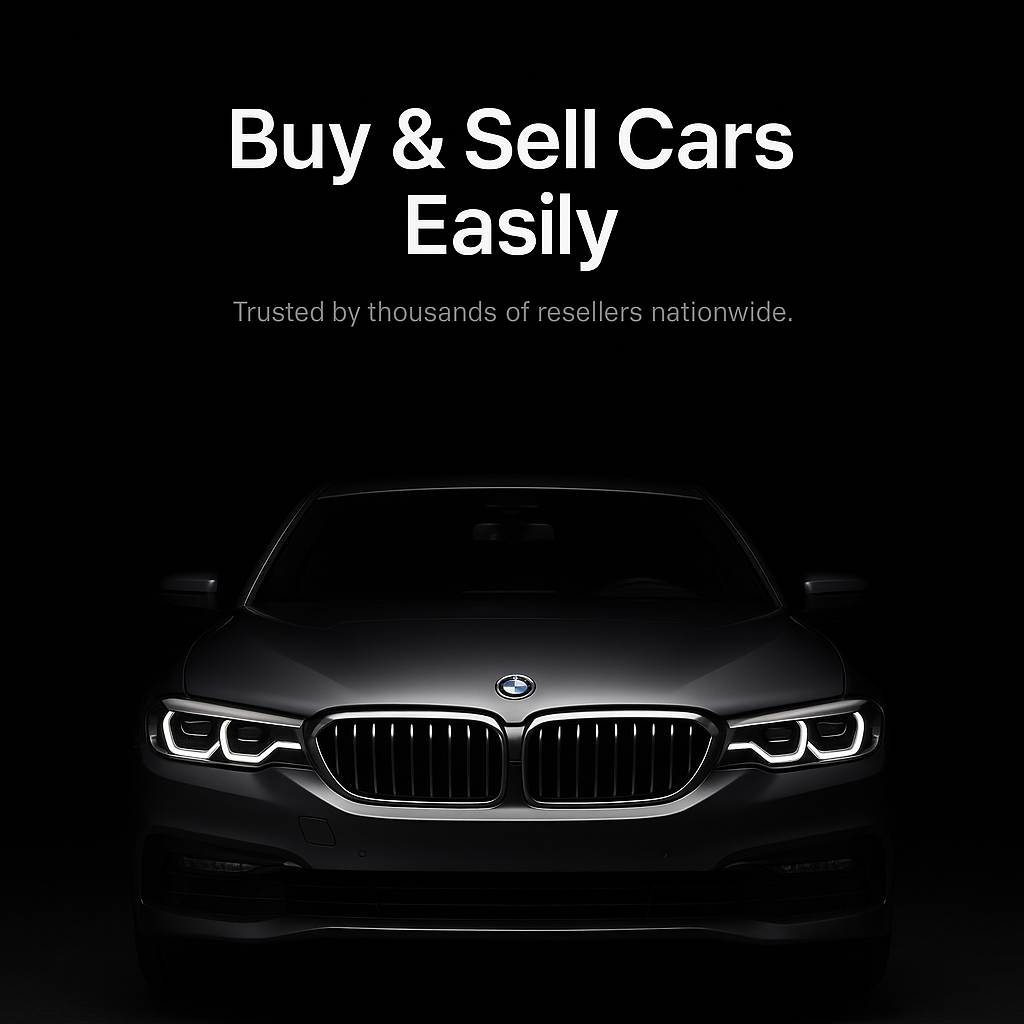
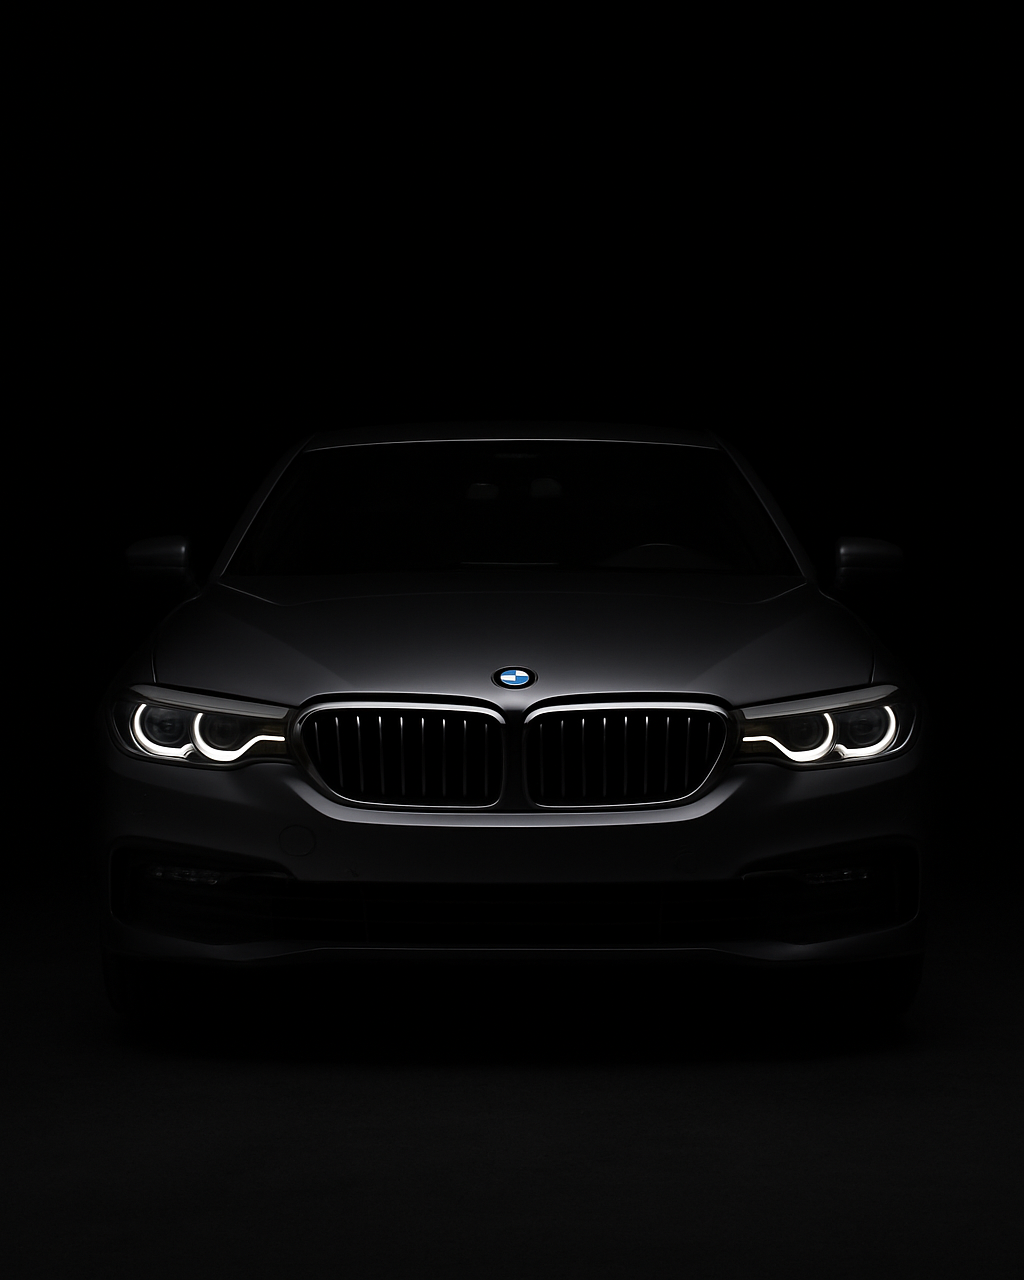
adding sections to LP

Changed region(s): [[0.125, 0.4688, 0.875, 0.8438], [0.2188, 0.0938, 0.7812, 0.3125], [0.2188, 0.9062, 0.25, 0.9375]]

diff --git a/src/components/FeaturedCars/FeaturedCars.css b/src/components/FeaturedCars/FeaturedCars.css
@@ -1,5 +1,9 @@
 /* FeaturedCars.css - Layout & section styles (does NOT modify individual CarCard styles) */
-
+.container-featured-cars{
+  display: flex;
+  flex-direction: column;
+  align-items: center;
+}
 .featured-section {
   padding: 4rem 5% 2rem;
   background: #ffffff;
@@ -31,7 +35,7 @@
 /* View all button */
 .view-all-btn, .btn-primary-large {
   margin: 3rem auto 0;
-  background: #1754ff;
+  background: var(--primary);
   color: #fff;
   padding: 0.9rem 2.5rem;
   border: none;
@@ -42,14 +46,14 @@
 }
 
 .view-all-btn:hover {
-  background: #1040d8;
+  background: var(--sb1);
 }
 
 /* ------- Mobile adjustments ------- */
 /* Map component class names */
 .featured-cars {
   padding: 4rem 5% 2rem;
-  background: #ffffff;
+  background: var(--altBackground);
   text-align: center;
   height: max-content;
 }
@@ -68,19 +72,21 @@
 }
 
 .featured-cars .cars-grid {
-  display: grid;
-  grid-template-columns: repeat(auto-fill, minmax(300px, 1fr));
+  display: flex;
+  flex-wrap: wrap;
   gap: 2rem;
   width: 100%;
   justify-items: center;
+  justify-content: center;
+  align-items: center;
 }
 
 .featured-cars .section-cta .btn-primary-large {
   margin-top: 3rem;
-  background: #1754ff;
-  color: #fff;
+  background: var(--primary);
+  color: var(--text);
   padding: 0.9rem 2.5rem;
-  border: none;
+  border: 2px solid var(--primary);
   border-radius: 8px;
   font-weight: 600;
   cursor: pointer;
@@ -88,7 +94,7 @@
 }
 
 .featured-cars .section-cta .btn-primary-large:hover {
-  background: #1040d8;
+  background: var(--sb1);
 }
 
 @media (max-width: 768px) {

diff --git a/src/pages/LandingPage/LandingPage.css b/src/pages/LandingPage/LandingPage.css
@@ -5,11 +5,31 @@
   min-height: 100vh;
   background: #ffffff;
   color: #0f1b31;
+  overflow-y: scroll;
+}
+
+.landing-page::-webkit-scrollbar {
+  width: 10px;
+}
+
+.landing-page::-webkit-scrollbar-track {
+  background: var(--altBackground);
+}
+
+.landing-page::-webkit-scrollbar-thumb {
+  background: var(--sb1);
+}
+
+.landing-page::-webkit-scrollbar-thumb:hover {
+  background: var(--primary);
 }
 
 .landing-page main {
+  display: flex;
+  flex-direction: column;
   flex: 1 0 auto;
-
+  gap: 2rem;
+background-color: var(--altBackground);
 }
 
 /* Utility container */
@@ -23,8 +43,8 @@
 /* Section header generic */
 .section-header { margin-bottom: 2.5rem; }
 
-.section-header .section-title { font-weight: 800; }
-.section-header .section-subtitle { color:#516173; }
+.section-header .section-title { font-weight: 800;color:var(--accent); }
+.section-header .section-subtitle { color:gray; }
 
 /* Mobile-first styles */
 .lp-header .logo {
@@ -33,7 +53,7 @@
 .car-card{
   margin-bottom: 2rem;
   box-shadow: none;
-  transition: all 1s ease;
+  flex: 0 1 360px;
 }
 
 /* Desktop override */

diff --git a/src/components/WhyChooseUs/WhyChooseUs.css b/src/components/WhyChooseUs/WhyChooseUs.css
@@ -1,7 +1,7 @@
 /* Why Choose Us Component Styles */
 .why-choose {
     padding: 4rem 0;
-    background: var(--background);
+    background: var(--altBackground);
   }
   
   .benefits-grid {
@@ -11,11 +11,11 @@
   }
   
   .benefit-card {
-    background: var(--surface);
+    background: var(--background);
     padding: 2rem;
     border-radius: 12px;
     text-align: center;
-    box-shadow: 0 4px 6px rgba(0, 0, 0, 0.05);
+    box-shadow: 0 4px 6px rgba(139, 139, 139, 0.05);
     transition: transform 0.2s ease;
   }
   
@@ -26,8 +26,8 @@
   .benefit-icon {
     width: 60px;
     height: 60px;
-    background: var(--primary);
-    color: white;
+    background: var(--accent);
+    color: var(--text);
     border-radius: 50%;
     display: flex;
     align-items: center;
@@ -39,10 +39,11 @@
     font-size: 1.25rem;
     font-weight: 700;
     margin-bottom: 1rem;
+    color: var(--text);
   }
   
   .benefit-card p {
-    color: var(--text-secondary);
+    color: gray;
     line-height: 1.6;
   }
   

diff --git a/src/pages/LandingPage/LandingPage.jsx b/src/pages/LandingPage/LandingPage.jsx
@@ -121,13 +121,13 @@ const LandingPage = () => {
 
   return (
     <div className="landing-page">
+      <Header
+        currentTheme={currentTheme}
+        setCurrentTheme={setCurrentTheme}
+        isMenuOpen={isMenuOpen}
+        setIsMenuOpen={setIsMenuOpen}
+      />
       <main>
-        <Header
-          currentTheme={currentTheme}
-          setCurrentTheme={setCurrentTheme}
-          isMenuOpen={isMenuOpen}
-          setIsMenuOpen={setIsMenuOpen}
-        />
         <Hero
           searchFilters={searchFilters}
           onSearchFiltersChange={setSearchFilters}
@@ -142,9 +142,8 @@ const LandingPage = () => {
 
         <WhyChooseUs />
         <Testimonials />
+        <Footer />
       </main>
-
-      <Footer />
     </div>
   );
 };

diff --git a/src/components/Hero/Hero.css b/src/components/Hero/Hero.css
@@ -1,12 +1,12 @@
 /* Hero Component Styles */
 .hero {
-    background: url("../../assets/hero-car.png");
+    background: url("../../assets/hero.jpeg");
     background-size:cover;
     background-position: center;
     background-repeat: no-repeat;
     /* background-attachment: fixed; */
     margin-top: 0vh;
-    height: 100vh;
+    height: 150vh;
     display: flex;
     align-items: center;
     color: var(--text);
@@ -24,7 +24,7 @@
     grid-template-rows: 1fr 1fr;
     gap: 4rem;
     align-items: center;
-    height: 100vh;
+    height: 150vh;
   }
 
   .hero-text {
@@ -34,6 +34,8 @@
    flex-direction: column;
    align-items: center;
    color: white;
+   position: relative;
+   bottom: 20%;
   }
   
   .hero-title {

diff --git a/src/components/CarCard/CarCard.css b/src/components/CarCard/CarCard.css
@@ -16,11 +16,13 @@
   box-shadow: var(--background) 0px 4px 8px 0px, var(--background) 0px 8px 24px 8px;
   overflow: hidden;
   color: var(--text);
+  transition: all 0.5s ease;
 }
 
 .car-card:hover {
-  /* transform: translateY(-4px);   */
-  animation: hover 0.5s ease-in-out;
+  /* create a hover transition  */
+  transform: scale(1.02);
+  box-shadow: var(--sb1) -5px 5px, var(--sb2) -10px 10px, var(--sb3) -15px 15px, var(--sb4) -20px 20px, var(--sb5) -25px 25px;
 }
 
 
@@ -395,7 +397,7 @@
 }
 @keyframes hover {
   to {
-    transform: translateY(-40px);
+    transform: translateY(-2px);
     box-shadow: var(--sb1) -5px 5px, var(--sb2) -10px 10px, var(--sb3) -15px 15px, var(--sb4) -20px 20px, var(--sb5) -25px 25px;
   }
 }

diff --git a/src/components/Testimonials/Testimonials.css b/src/components/Testimonials/Testimonials.css
@@ -1,7 +1,7 @@
 /* Testimonials Component Styles */
 .testimonials {
     padding: 4rem 0;
-    background: var(--surface);
+    background: var(--altBackground);
   }
   
   .testimonials-grid {
@@ -33,18 +33,18 @@
   .testimonial-card p {
     font-style: italic;
     margin-bottom: 1.5rem;
-    color: var(--text-secondary);
+    color: gray;
     line-height: 1.6;
   }
   
   .testimonial-author strong {
     display: block;
     font-weight: 700;
-    color: var(--text-primary);
+    color: var(--text);
   }
   
   .testimonial-author span {
-    color: var(--text-secondary);
+    color: gray;
     font-size: 0.9rem;
   }
   

diff --git a/src/index.css b/src/index.css
@@ -242,9 +242,21 @@ body {
   -webkit-font-smoothing: antialiased;
   -moz-osx-font-smoothing: grayscale;
   line-height: 1.5; /* Set a default line-height */
-}
-html {
+  /* overflow:hidden; */
   scroll-behavior: smooth;
+}
+body::-webkit-scrollbar {
+  width: 1px;
+}
+body::-webkit-scrollbar-track {
+  background: var(--background);
+}
+body::-webkit-scrollbar-thumb {
+  background: var(--accent);
+}
+
+body::-webkit-scrollbar-thumb:hover {
+  background: var(--primary);
 }
 
 

diff --git a/src/components/FeaturedCars/FeaturedCars.jsx b/src/components/FeaturedCars/FeaturedCars.jsx
@@ -6,7 +6,7 @@ import "./FeaturedCars.css";
 const FeaturedCars = ({ cars, onViewDetails, onContactSeller }) => {
   return (
     <section className="featured-cars">
-      <div className="container">
+      <div className="container-featured-cars">
         <div className="section-header">
           <h2 className="section-title">Featured Deals</h2>
           <p className="section-subtitle">

diff --git a/src/components/Footer/Footer.css b/src/components/Footer/Footer.css
@@ -1,7 +1,7 @@
 /* Footer Component Styles */
 .footer {
-  background: var(--text-primary);
-  color: white;
+  background: var(--altBackground);
+  color: var(--text);
   padding: 3rem 0 1rem;
 }
 
@@ -45,7 +45,7 @@
 }
 
 .footer-section ul li a:hover {
-  color: white;
+  color: var(--accent);
 }
 
 .social-links {
